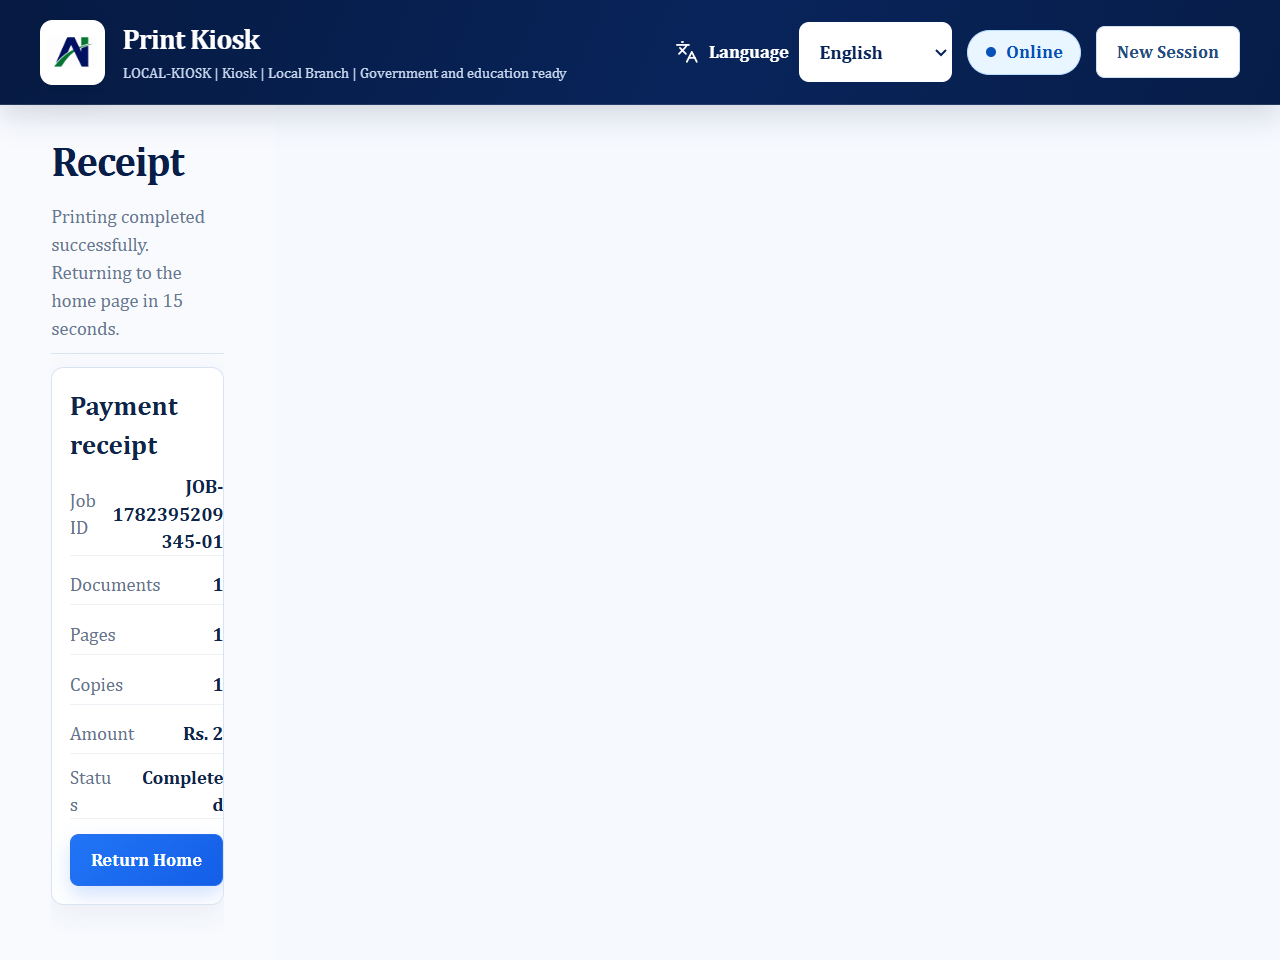
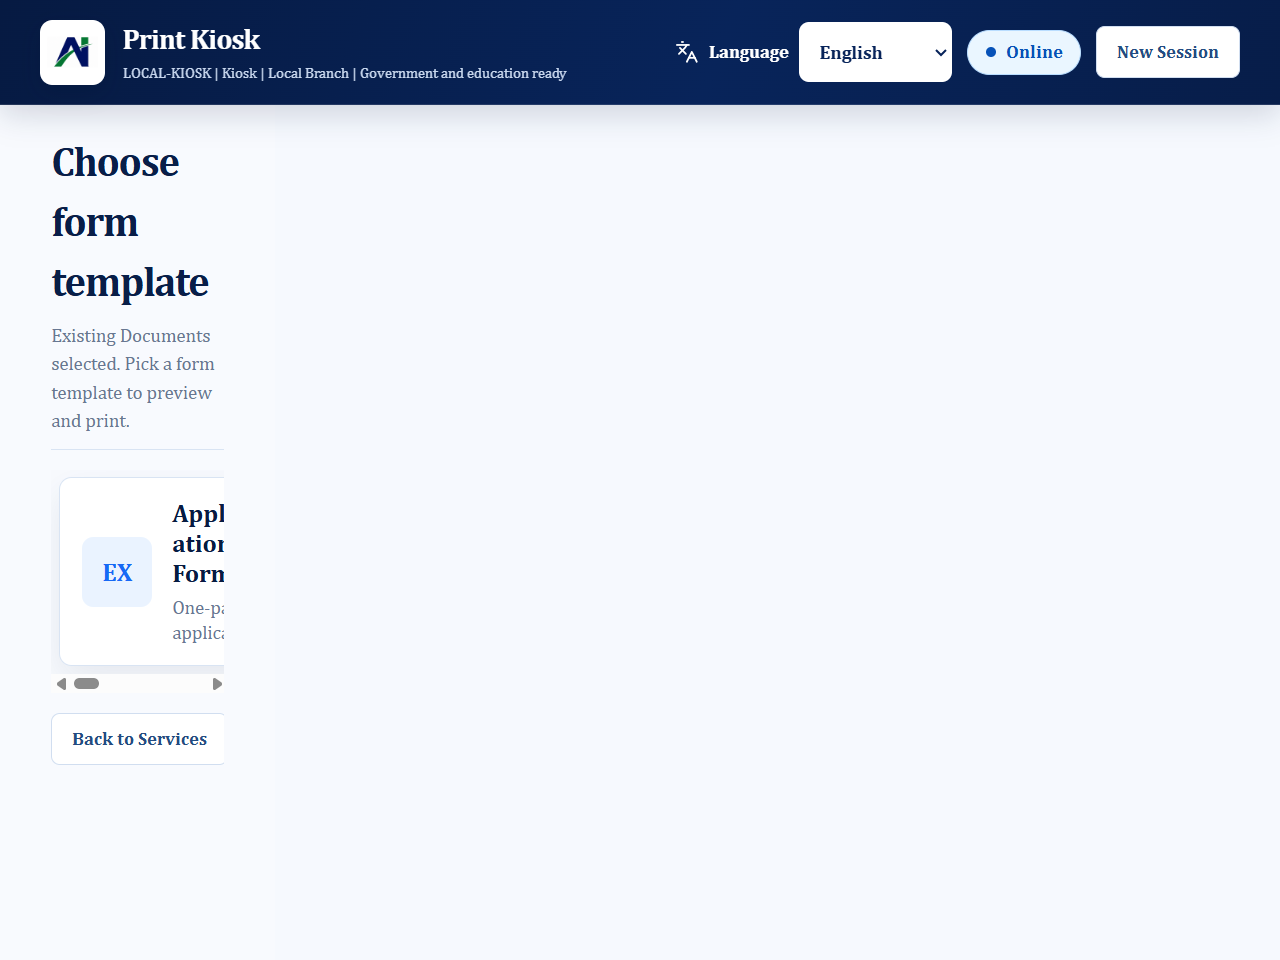
s

diff --git a/app.js b/app.js
@@ -15,6 +15,13 @@ const HOSTED_PROXY_BACKEND_URL = /^https?:$/.test(window.location.protocol) &&
   : "";
 const LOCAL_AGENT_URL = runtimeConfig.get("localAgentUrl") || frontendConfig.localAgentUrl || "http://localhost:5077";
 const BACKEND_URL = (runtimeConfig.get("backendUrl") || HOSTED_PROXY_BACKEND_URL || frontendConfig.backendUrl || DEFAULT_BACKEND_URL).replace(/\/+$/, "");
+const PUBLIC_FRONTEND_URL = (
+  runtimeConfig.get("publicFrontendUrl") ||
+  runtimeConfig.get("frontendUrl") ||
+  frontendConfig.publicFrontendUrl ||
+  frontendConfig.frontendUrl ||
+  ""
+).replace(/\/+$/, "");
 const RAZORPAY_CHECKOUT_URL = "https://checkout.razorpay.com/v1/checkout.js";
 const PRINTER_STATUS_TIMEOUT_MS = 15000;
 const MAX_FILES_PER_JOB = 10;
@@ -2332,7 +2339,6 @@ async function refreshPrinterStatus({ rerender = true } = {}) {
 
   state.printer = {
     ...state.printer,
-    online: false,
     checking: true,
     agent: "Checking",
     statusText: "Checking printer status..."
@@ -2788,13 +2794,39 @@ async function createRazorpayOrder() {
 }
 
 function buildMobilePaymentUrl(paymentUrl, paymentId) {
-  if (paymentUrl) return paymentUrl;
+  if (!paymentId) return paymentUrl || "";
 
-  const baseUrl = (BACKEND_URL || window.location.origin || "").replace(/\/+$/, "");
-  const url = new URL("/index.html", `${baseUrl}/`);
+  const configuredFrontendUrl = parseHttpUrl(PUBLIC_FRONTEND_URL);
+  const currentFrontendUrl = /^https?:$/.test(window.location.protocol)
+    ? new URL(window.location.href)
+    : null;
+  const fallbackCheckoutUrl = parseHttpUrl(paymentUrl);
+  const url = configuredFrontendUrl || currentFrontendUrl || fallbackCheckoutUrl || new URL(window.location.href);
+  normalizeIndexPageUrl(url);
+  url.search = "";
+  url.hash = "";
   url.searchParams.set("mobilePayment", paymentId);
-  url.searchParams.set("backendUrl", BACKEND_URL || baseUrl);
+  if (BACKEND_URL) {
+    url.searchParams.set("backendUrl", BACKEND_URL);
+  }
   return url.toString();
+}
+
+function parseHttpUrl(value = "") {
+  try {
+    const url = new URL(value);
+    return /^https?:$/.test(url.protocol) ? url : null;
+  } catch {
+    return null;
+  }
+}
+
+function normalizeIndexPageUrl(url) {
+  const lastSegment = url.pathname.split("/").pop() || "";
+  if (url.pathname === "/" || !lastSegment.includes(".")) {
+    const prefix = url.pathname.replace(/\/+$/, "");
+    url.pathname = `${prefix}/index.html`;
+  }
 }
 
 async function fetchPaymentQr(paymentUrl) {
@@ -3227,7 +3259,7 @@ function goToNextStep() {
   if (state.step === 3 && previousStep !== 3 && !state.printer.manualReadyOverride) {
     state.printer = {
       ...state.printer,
-      online: false,
+      checking: true,
       name: "Checking printer",
       paper: "Unknown",
       toner: "Unknown",
@@ -3351,8 +3383,8 @@ function renderAdminShell() {
 }
 
 function renderCustomerTopbar() {
-  const printerClass = state.printer.online && !state.printer.checking ? "" : "warning";
-  const printerText = state.printer.online && !state.printer.checking ? "Online" : "Offline";
+  const printerClass = state.printer.online ? "" : "warning";
+  const printerText = state.printer.online ? "Online" : state.printer.checking ? "Checking" : "Offline";
   const kioskLabel = [state.kiosk.kioskId || KIOSK_ID, state.kiosk.name, state.kiosk.branch]
     .filter(Boolean)
     .join(" | ");

diff --git a/build.js b/build.js
@@ -6,6 +6,7 @@ const distDir = path.join(rootDir, "dist");
 const buildVersion = process.env.FRONTEND_BUILD_VERSION || String(Date.now());
 const config = {
   backendUrl: process.env.FRONTEND_BACKEND_URL || process.env.BACKEND_URL || "",
+  publicFrontendUrl: process.env.FRONTEND_PUBLIC_URL || process.env.PUBLIC_FRONTEND_URL || process.env.KIOSK_URL || "",
   localAgentUrl: process.env.FRONTEND_LOCAL_AGENT_URL || "",
   kioskId: process.env.FRONTEND_KIOSK_ID || "",
   testHooks: process.env.FRONTEND_TEST_HOOKS === "true"

diff --git a/config.js b/config.js
@@ -1,5 +1,6 @@
 window.PRINTING_KIOSK_CONFIG = {
   "backendUrl": "",
+  "publicFrontendUrl": "",
   "localAgentUrl": "",
   "kioskId": "",
   "testHooks": false